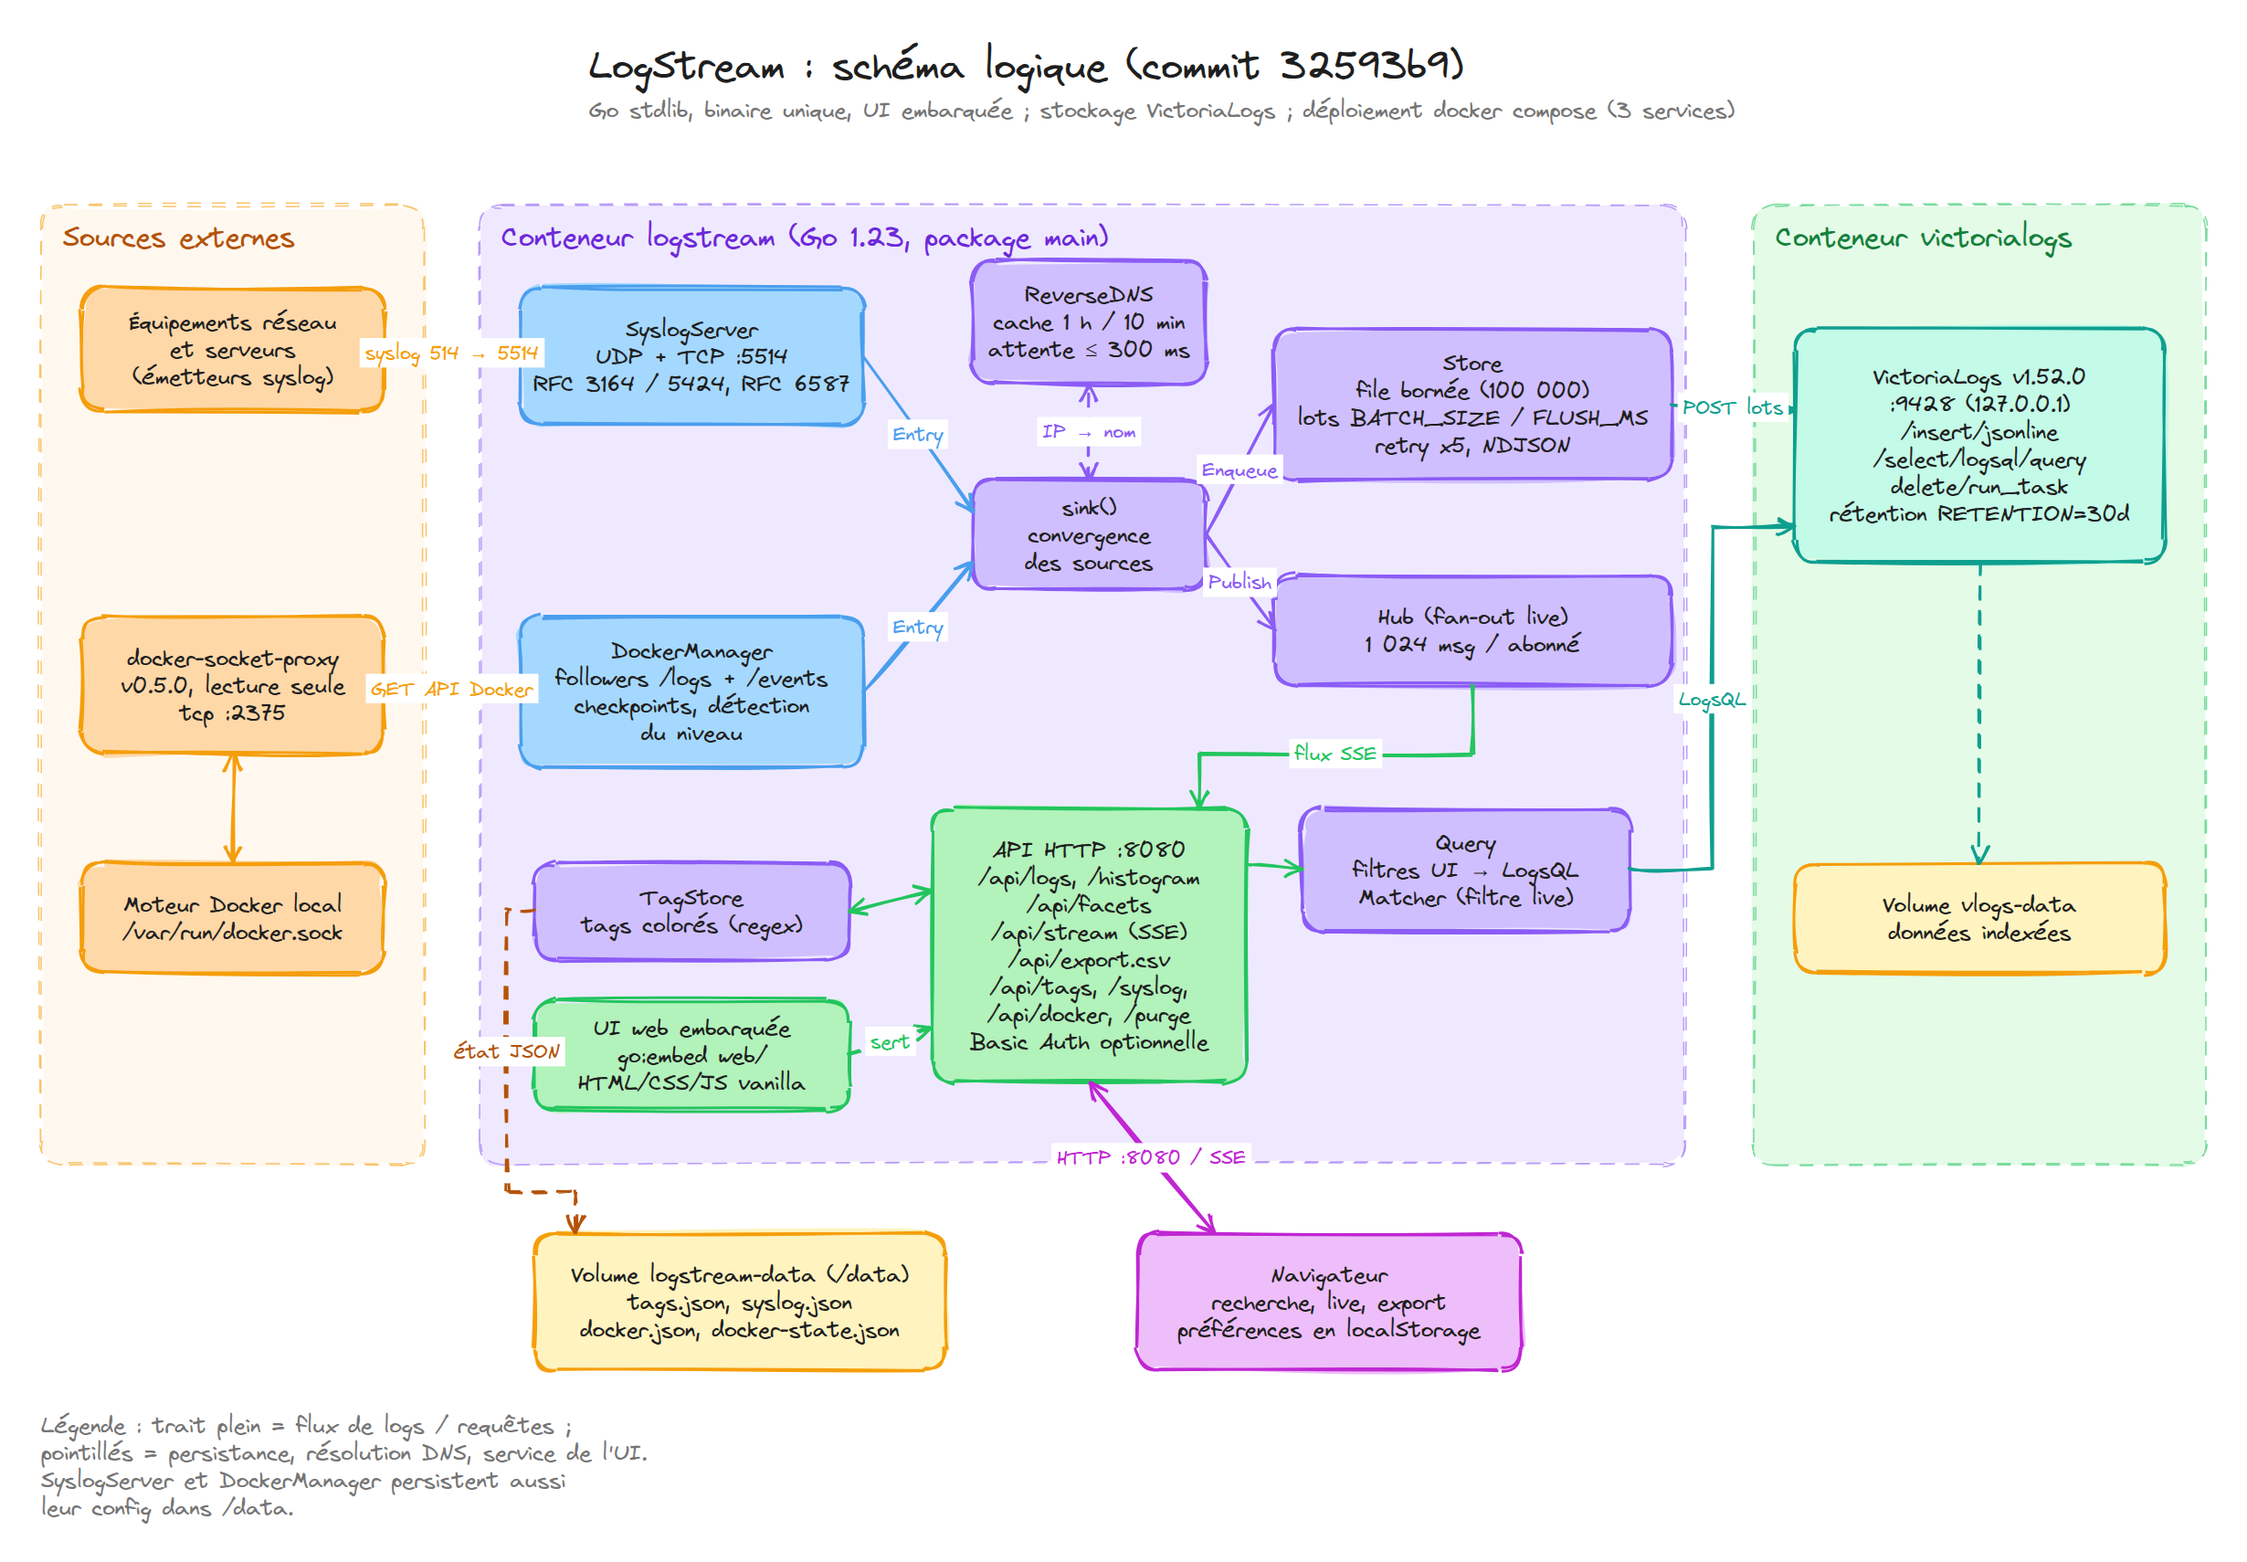
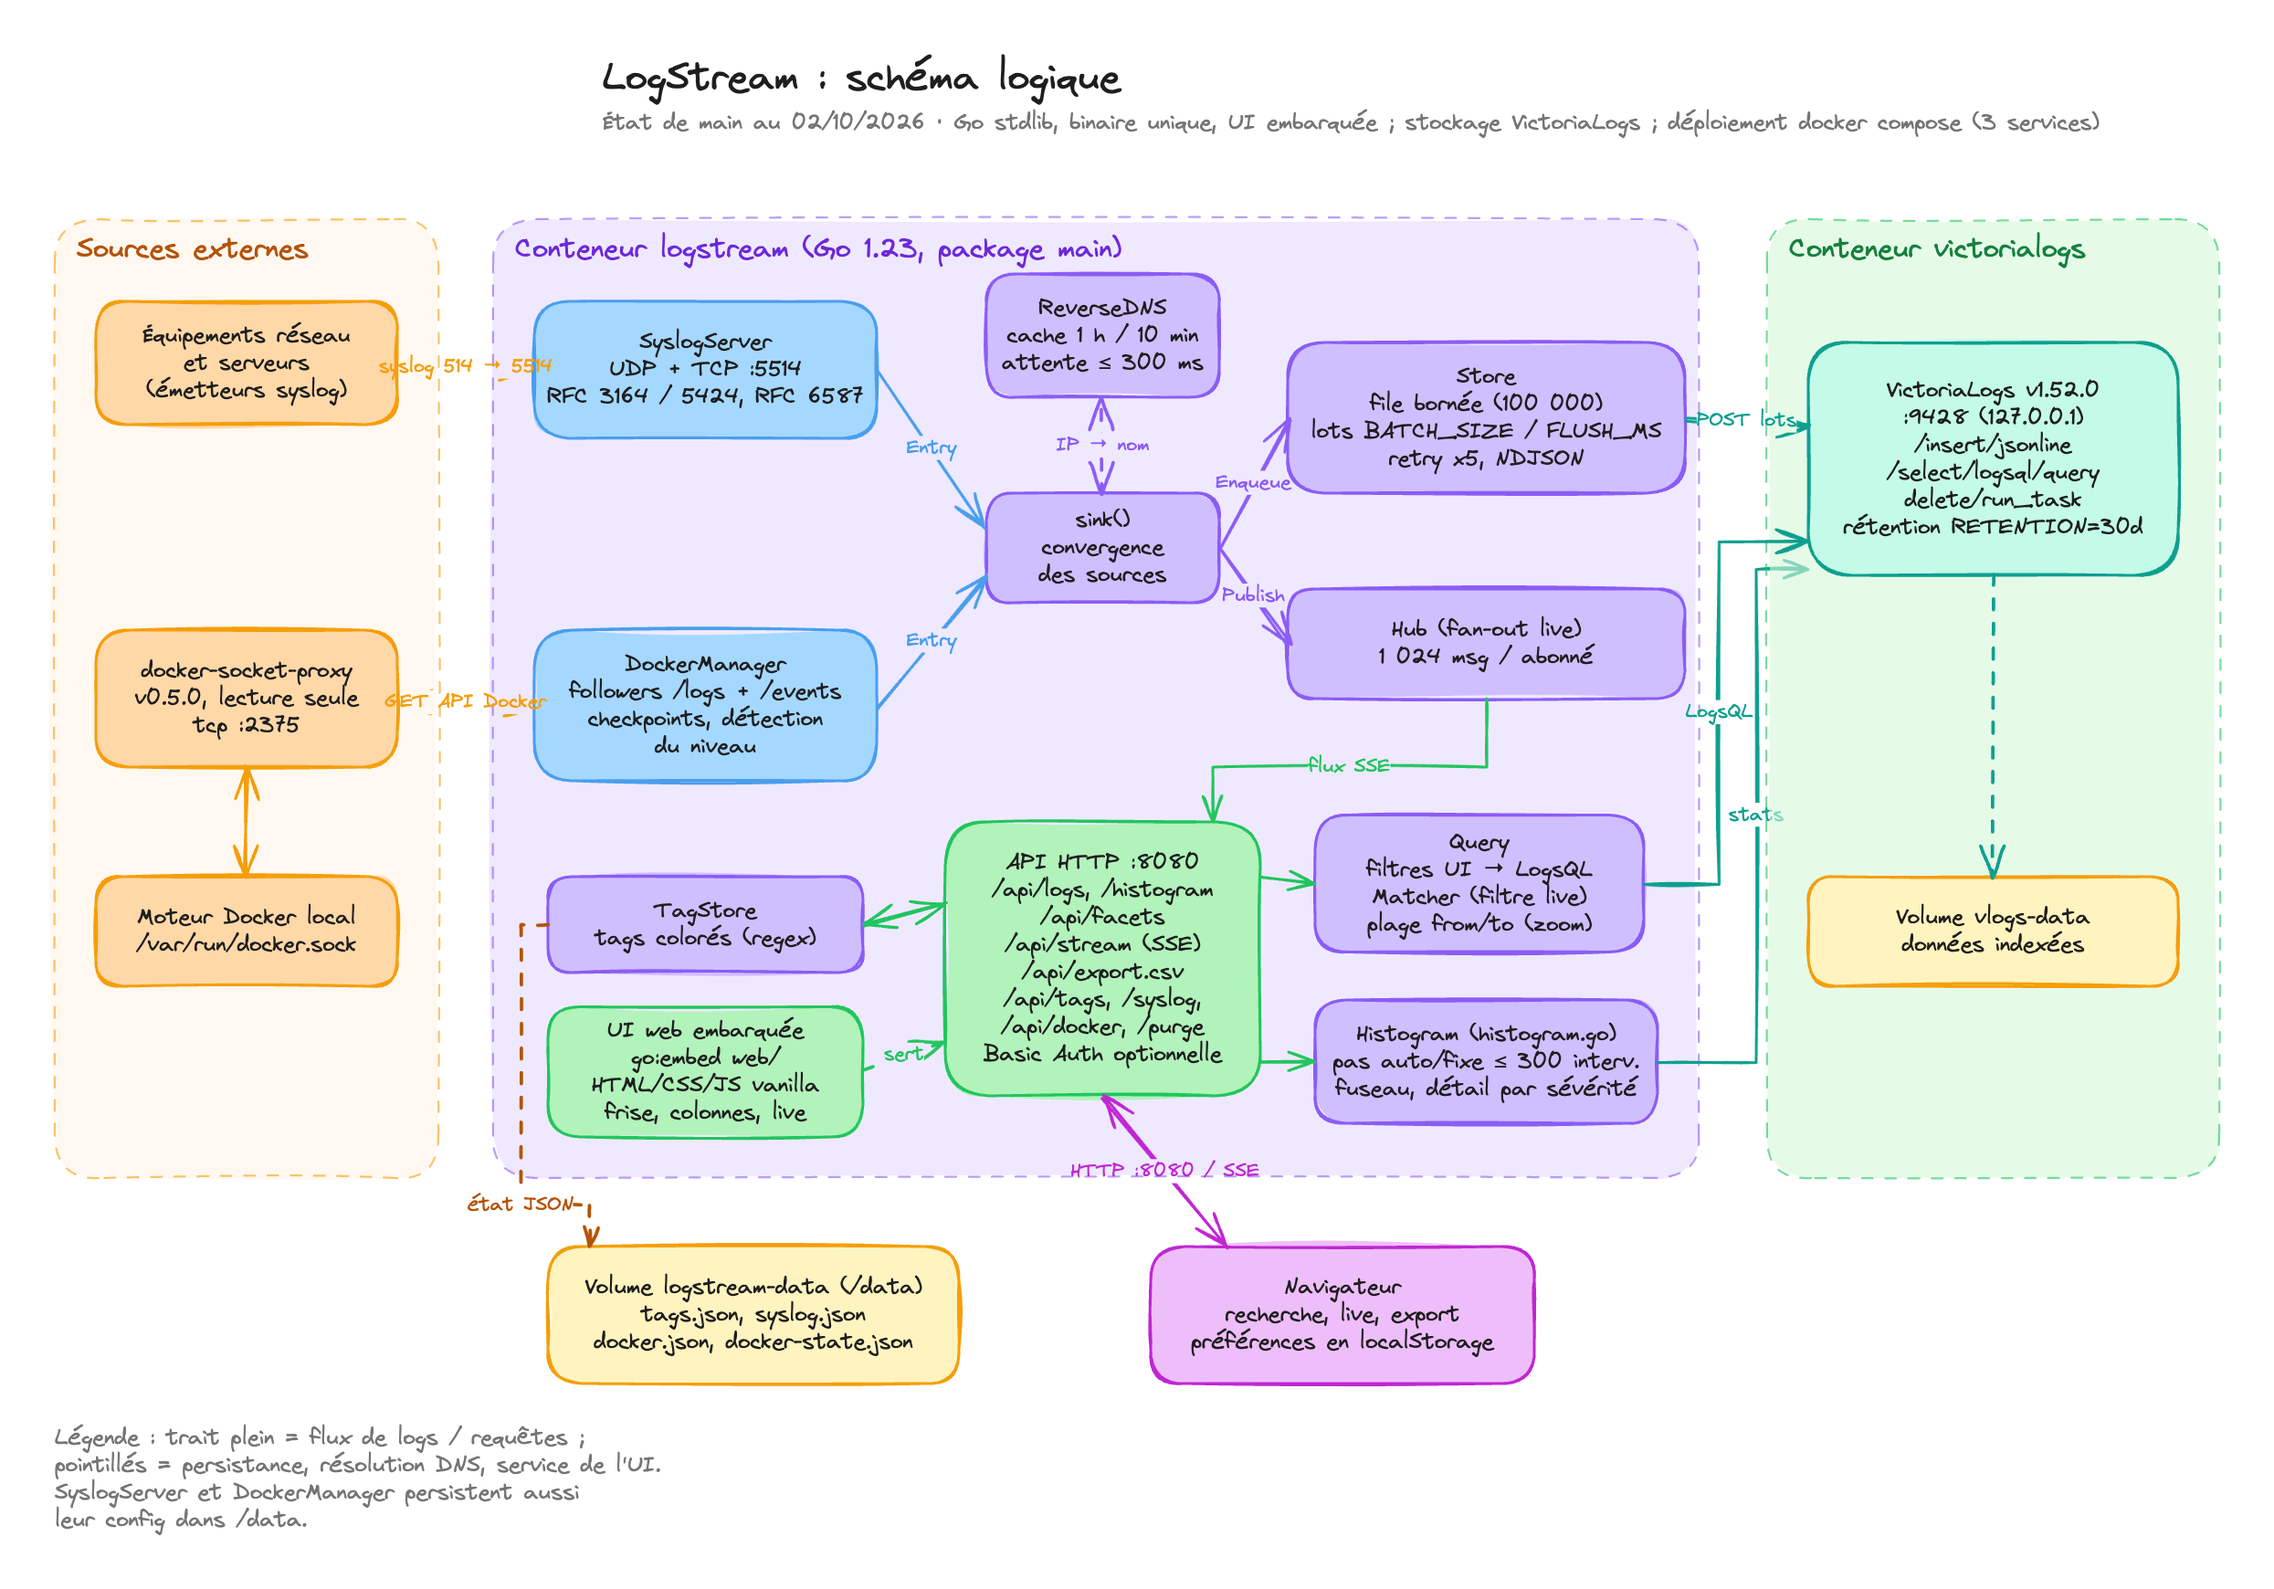
Architecture diagram: current main, timeline histogram
- Title without the commit hash (the hand-drawn font turned "32593b9" into
  "3259369"); the subtitle dates the diagram instead.
- New Histogram (histogram.go) box: API -> histogram -> VictoriaLogs (stats).
- Query mentions the from/to range (zoom); the web UI mentions the
  timeline, columns and live view.
- Multi-segment arrows drawn straight, routed between the containers.
- PNG regenerated from the .excalidraw source (Excalidraw 0.18 renderer).
- README: histogram.go in the Search flow.

diff --git a/README.md b/README.md
@@ -18,7 +18,8 @@ devices ──514 udp/tcp──▶ logstream (Go) ──HTTP batches──▶ Vi
   on IP hosts), then the `Store` queue, which sends them in batches to VictoriaLogs.
 - **Live view**: `sink()` also publishes each message to the `Hub`, which streams it to the
   browsers over SSE.
-- **Search**: the HTTP API turns the UI filters into LogsQL queries sent to VictoriaLogs.
+- **Search**: the HTTP API turns the UI filters into LogsQL queries sent to VictoriaLogs;
+  `histogram.go` computes the timeline intervals (division, time zone, count per severity).
 - **State**: tags and source settings live in `/data` (`logstream-data` volume); the logs
   themselves in the `vlogs-data` volume.
 
